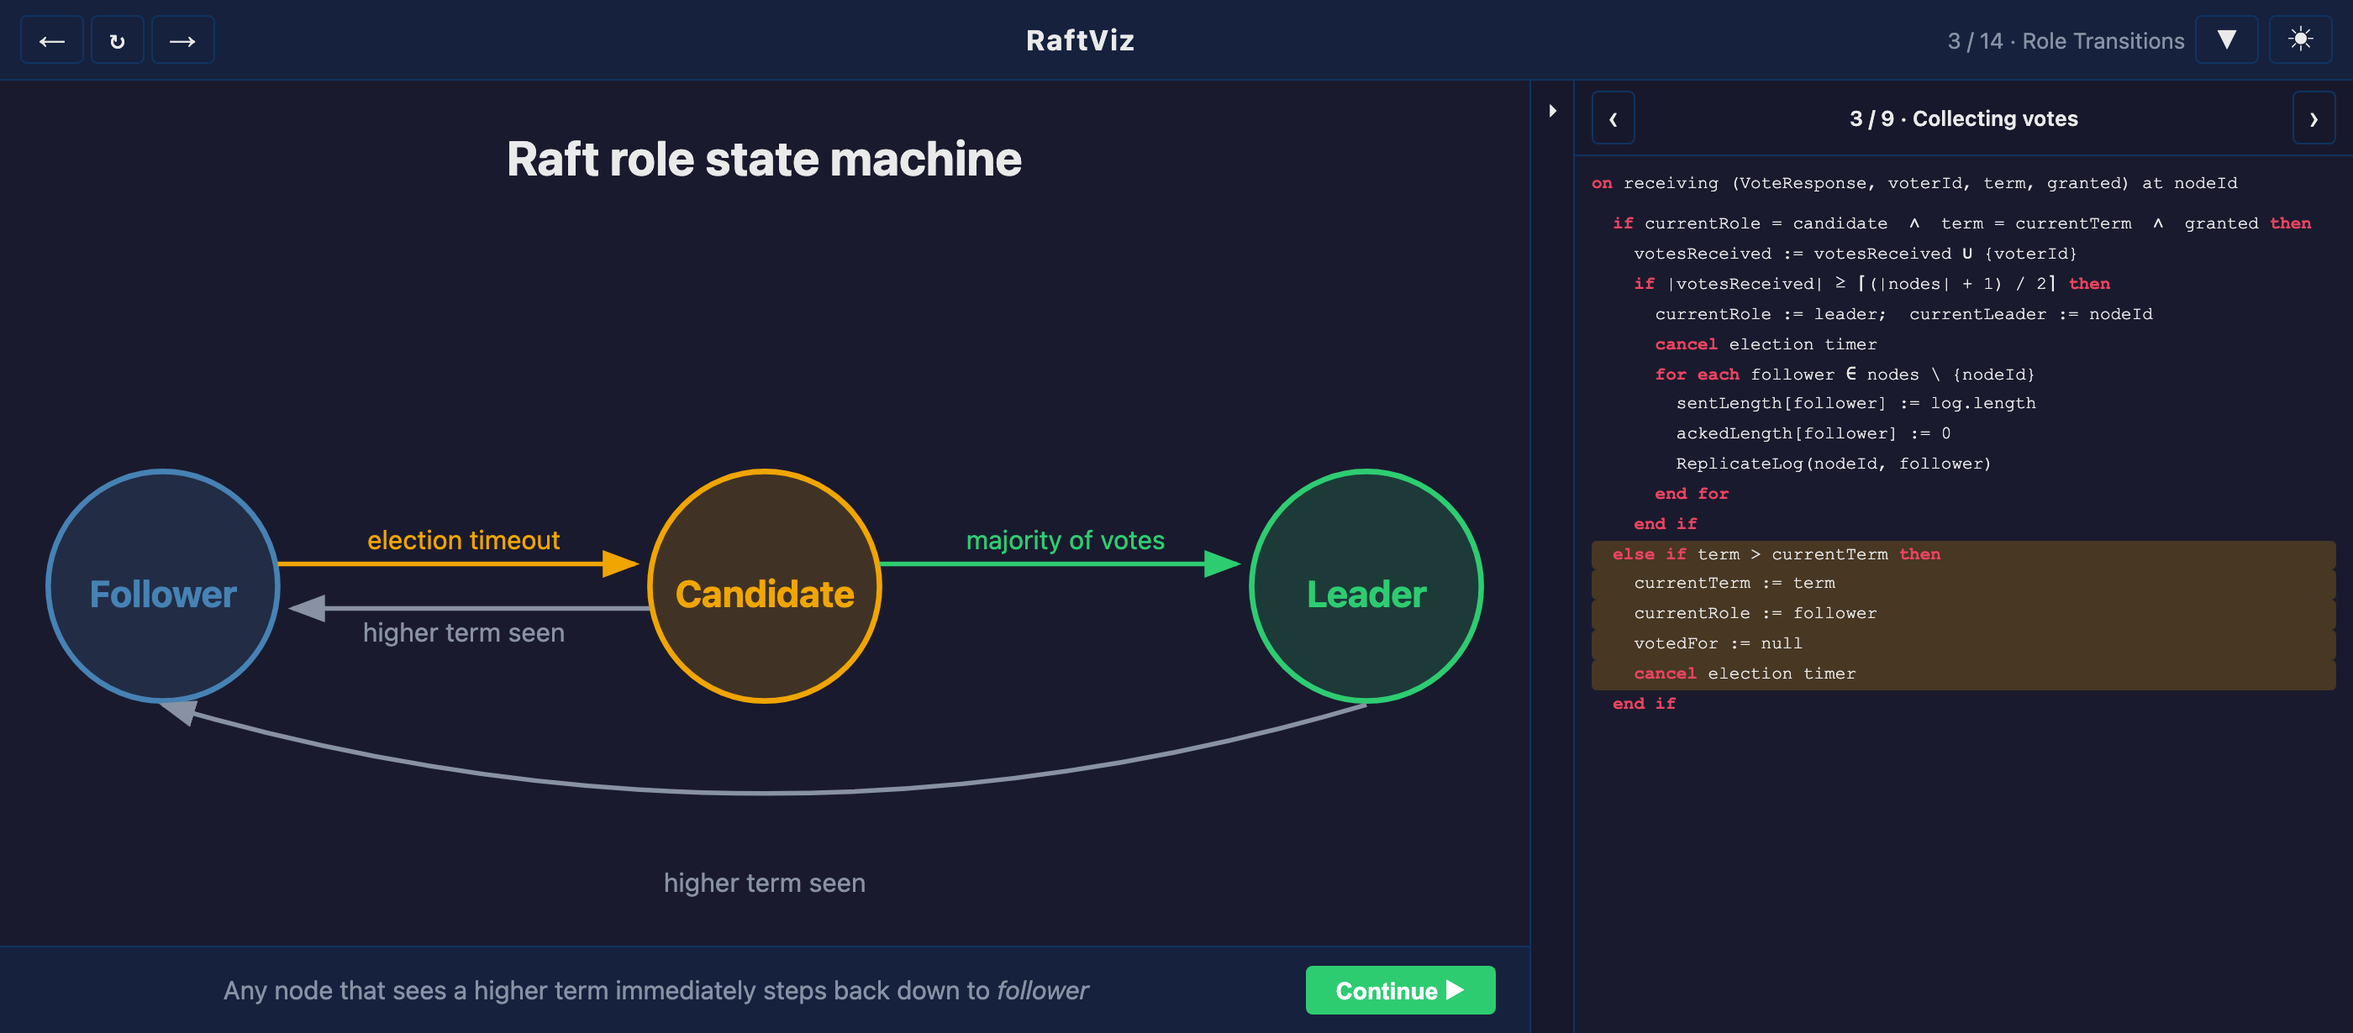
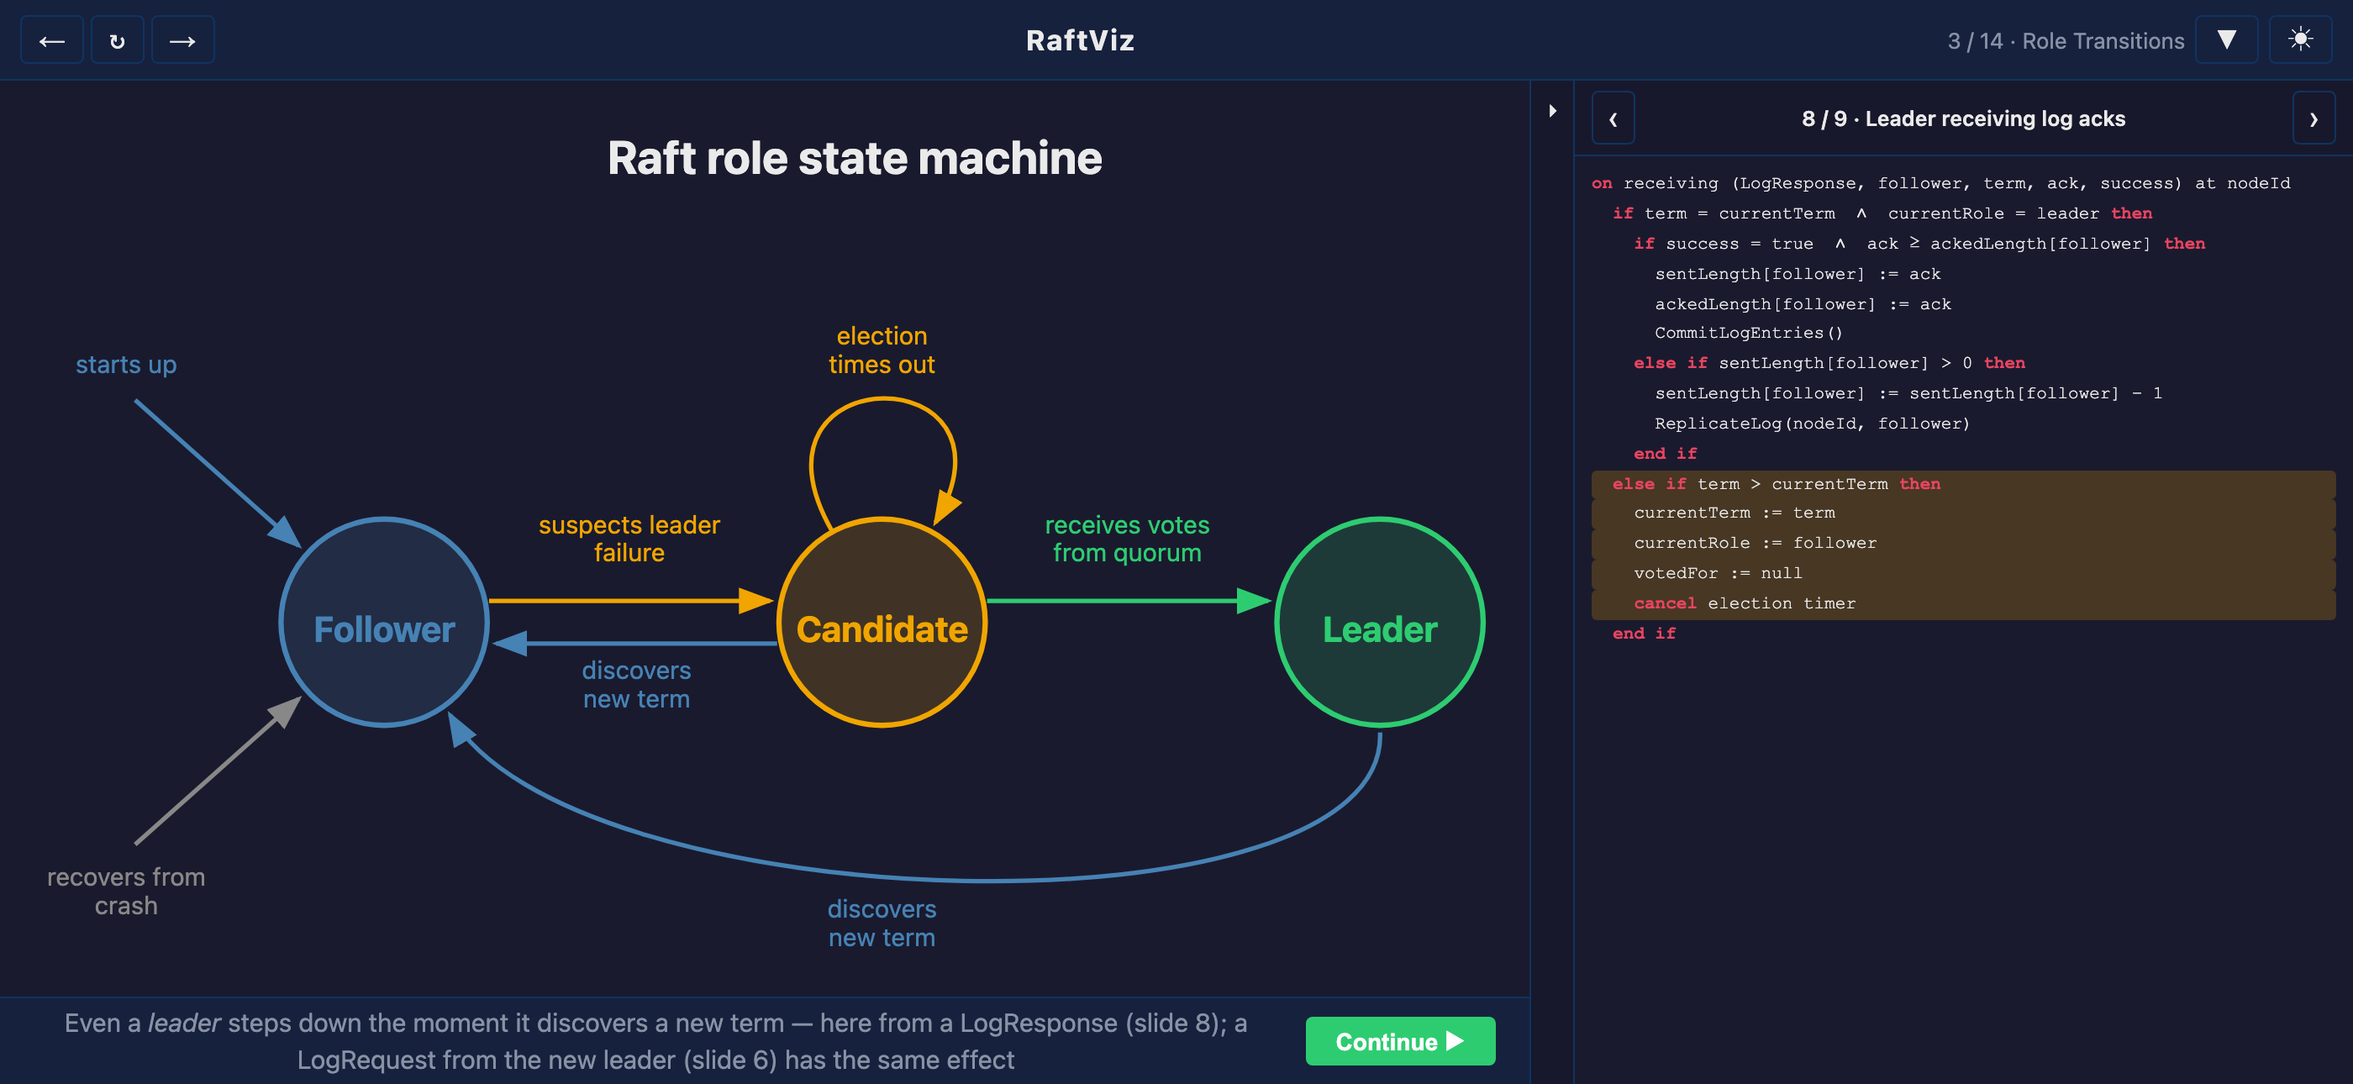
Scene 3: walk all six l:raft-states transitions
The role-transition diagram drew four of the lecture slide's six edges, and
attributed the leader step-down to slide 3 -- the candidate's VoteResponse
handler, which a leader never runs.

Scene 3 now steps through every edge, each highlighting the handler that
implements it:

  starts up                 -> HL.INIT          (slide 1)
  recovers from crash       -> HL.RECOVERY      (slide 1)
  F->C  suspects leader failure   -> HL.ELECTION_TIMEOUT
  C->L  receives votes from quorum -> HL.BECOME_LEADER (slide 3)
  C->F  discovers new term  -> HL.STEP_DOWN_3   (slide 3)
  C->C  election times out  -> HL.ELECTION_RETRY (slide 1, new)
  L->F  discovers new term  -> HL.STEP_DOWN_8   (slide 8)

Initialisation and crash recovery are separate edges because they are separate
`on ...` blocks on slide 1 -- the second resets only volatile state.
HL.STEP_DOWN_8 existed but was referenced by no frame; step 8 is its first use.
Labels now match the lecture wording, which the self-loop forced anyway:
"election timeout" on F->C clashed with "election times out" on C->C.

Geometry retuned (R 62->58, CY 270->300, cx 175/500/825 -> 235/515/795) to free
the left margin for the entry labels and vertical room for the self-loop. The
self-loop and the L->F edge are cubics: markers inherit
markerUnits="strokeWidth", so the tip renders 2.5 units past the path endpoint
and the naive symmetric endpoints buried both heads inside the target circle.
[…]

diff --git a/scripts/frames/03_state_diagram.js b/scripts/frames/03_state_diagram.js
@@ -5,10 +5,16 @@
  * with animated reveal of each transition arrow, synchronised with pseudocode
  * highlights.
  *
+ * The diagram mirrors the lecture's state-machine slide one-to-one: the two
+ * ways a node enters the follower state (fresh start-up and crash recovery,
+ * which are separate `on …` blocks on slide 1), the three role changes, and
+ * the candidate's election-timeout self-loop. Each arrow highlights the
+ * pseudocode that actually implements it — note that a *leader* steps down via
+ * slide 8, not slide 3.
+ *
  * No cluster simulation runs here — this is a pure annotated diagram.
  */
 
-import d3                  from '../lib/d3.js';
 import { PseudocodePanel } from '../pseudocode/pseudocode_layout.js';
 import { HL }              from '../pseudocode/pseudocode.js';
 import { getTheme }        from '../theme.js';
@@ -17,11 +23,13 @@ import { getTheme }        from '../theme.js';
 let _panel = null;
 
 // ── Circle geometry (SVG viewBox 0 0 1000 600) ───────────────────────────────
-const R   = 62;   // circle radius
-const CY  = 270;  // circle centre y
-const FX  = 175;  // Follower  cx
-const CX  = 500;  // Candidate cx
-const LX  = 825;  // Leader    cx
+const R   = 58;   // circle radius
+const CY  = 300;  // circle centre y
+const FX  = 235;  // Follower  cx
+const CX  = 515;  // Candidate cx
+const LX  = 795;  // Leader    cx
+
+const LINE_DY = 16;   // label line height — 1.15em at font-size 14
 
 // ── Frame descriptor ─────────────────────────────────────────────────────────
 export const frame03StateDiagram = {
@@ -39,15 +47,23 @@ export const frame03StateDiagram = {
     const COL_LEADER    = th.leader;
 
     // ── SVG defs: arrowhead markers ───────────────────────────────────────────
+    // The defs live on layout.svg, *outside* the root <g>, so layout.clear()
+    // never removes them — hence the explicit remove before re-creating. A
+    // theme toggle replays the frame, and stale markers would keep the old
+    // colours because url(#id) resolves to the first match in the document.
     const svgSel = layout.svg;
     const defsId = 'state-diagram-defs';
     svgSel.select(`#${defsId}`).remove();   // clean up if replaying
     const defs = svgSel.insert('defs', ':first-child').attr('id', defsId);
 
+    // Each edge is coloured by the role it leads *to*; the crash-recovery edge
+    // uses the same grey node_layout.js paints a crashed node with.
     const ARROW_COLORS = {
-      gray:   th.arrowGray,
+      blue:   th.follower,
       orange: th.candidate,
       green:  th.leader,
+      crash:  th.stopped,
+      gray:   th.arrowGray,   // fallback only
     };
     Object.entries(ARROW_COLORS).forEach(([key, fill]) => {
       defs.append('marker')
@@ -94,55 +110,98 @@ export const frame03StateDiagram = {
     const circleC = makeCircle(CX, CY, COL_CANDIDATE, 'Candidate');
     const circleL = makeCircle(LX, CY, COL_LEADER,    'Leader');
 
+    // ── Helper: multi-line SVG label ──────────────────────────────────────────
+    // The lecture slide wraps its edge labels; ours have to as well or they
+    // collide with the circles. `lines` may be a string or an array of lines.
+    function makeLabel(parent, lines, x, y, color, anchor = 'middle') {
+      const arr = Array.isArray(lines) ? lines : [lines];
+      const t = parent.append('text')
+        .attr('x', x).attr('y', y)
+        .attr('text-anchor', anchor)
+        .attr('font-size', 14)
+        .attr('fill', color);
+      t.selectAll('tspan')
+        .data(arr)
+        .join('tspan')
+          .attr('x', x)                                   // must repeat per line
+          .attr('dy', (_, i) => (i === 0 ? 0 : LINE_DY))  // first line: no shift
+          .text(d => d);
+      return t;
+    }
+
     // ── Helper: draw a labelled arrow (starts invisible) ──────────────────────
-    function makeArrow(d, color, key, labelTxt, labelX, labelY, anchor = 'middle') {
-      const grp = g.append('g').attr('opacity', 0);
+    // Path endpoints sit ~R+6 from the target centre: the markers inherit
+    // markerUnits="strokeWidth" (2.5), so the arrowhead tip renders 2.5 user
+    // units *past* the path endpoint.
+    function makeArrow(d, key, lines, labelX, labelY, anchor = 'middle') {
+      const col = ARROW_COLORS[key] ?? th.arrowGray;
+      const grp = g.append('g').attr('class', 'transition-arrow').attr('opacity', 0);
       grp.append('path')
         .attr('d', d)
         .attr('fill', 'none')
-        .attr('stroke', ARROW_COLORS[key] ?? '#8892a4')
+        .attr('stroke', col)
         .attr('stroke-width', 2.5)
         .attr('marker-end', `url(#arr-${key})`);
-      grp.append('text')
-        .attr('x', labelX).attr('y', labelY)
-        .attr('text-anchor', anchor)
-        .attr('font-size', 14)
-        .attr('fill', ARROW_COLORS[key] ?? '#8892a4')
-        .text(labelTxt);
+      makeLabel(grp, lines, labelX, labelY, col, anchor);
       return grp;
     }
 
+    // → F  (fresh start-up, entering from the upper left)
+    const arrowInit = makeArrow(
+      'M 95,175  L 187,257',
+      'blue',
+      ['starts up'],
+      90, 160,
+    );
+    // → F  (crash recovery, entering from the lower left)
+    const arrowRecover = makeArrow(
+      'M 95,425  L 187,343',
+      'crash',
+      ['recovers from', 'crash'],
+      90, 448,
+    );
     // F → C  (above, going right)
     const arrowFC = makeArrow(
-      `M ${FX + R},${CY - 12}  L ${CX - R - 8},${CY - 12}`,
-      COL_CANDIDATE, 'orange',
-      'election timeout',
-      (FX + CX) / 2, CY - 20,
-    );
-    // C → F  (below, going left)
-    const arrowCF = makeArrow(
-      `M ${CX - R},${CY + 12}  L ${FX + R + 8},${CY + 12}`,
-      'gray', 'gray',
-      'higher term seen',
-      (FX + CX) / 2, CY + 30,
+      'M 294,288  L 452,288',
+      'orange',
+      ['suspects leader', 'failure'],
+      373, 250,
     );
     // C → L  (above, going right)
     const arrowCL = makeArrow(
-      `M ${CX + R},${CY - 12}  L ${LX - R - 8},${CY - 12}`,
-      COL_LEADER, 'green',
-      'majority of votes',
-      (CX + LX) / 2, CY - 20,
+      'M 574,288  L 732,288',
+      'green',
+      ['receives votes', 'from quorum'],
+      653, 250,
     );
-    // L → F  (large arc below all circles)
+    // C → F  (below, going left)
+    const arrowCF = makeArrow(
+      'M 456,312  L 298,312',
+      'blue',
+      ['discovers', 'new term'],
+      377, 332,
+    );
+    // C → C  (self-loop above the candidate; a cubic so the head lands radially)
+    const arrowCC = makeArrow(
+      'M 487,249  C 430,150 600,150 545,244',
+      'orange',
+      ['election', 'times out'],
+      515, 144,
+    );
+    // L → F  (large arc below all circles, into the follower's lower right)
     const arrowLF = makeArrow(
-      `M ${LX},${CY + R + 2}  Q 500,430 ${FX},${CY + R + 2}`,
-      'gray', 'gray',
-      'higher term seen',
-      500, 435,
+      'M 795,362  C 800,480 340,470 272,352',
+      'blue',
+      ['discovers', 'new term'],
+      515, 466,
     );
 
     // ── Subtitle on load ──────────────────────────────────────────────────────
     layout.setSubtitle('Every Raft node is always in exactly one of three roles');
+
+    /** Fade one arrow in. */
+    const reveal = (arrow, delay = 0) =>
+      arrow.transition().duration(500).delay(delay).attr('opacity', 1);
 
     // ── Timeline steps ────────────────────────────────────────────────────────
     timeline
@@ -151,38 +210,73 @@ export const frame03StateDiagram = {
         circleF.transition().duration(600).attr('opacity', 1);
         circleC.transition().duration(600).delay(150).attr('opacity', 1);
         circleL.transition().duration(600).delay(300).attr('opacity', 1);
+        _panel.clear();
+      })
+      .waitForResume(() => {
+        layout.setSubtitle('Every Raft node is always in exactly one of three roles');
+      })
+
+      // Step 2: entering the state machine — fresh start-up
+      .after(300, () => {
+        reveal(arrowInit);
         _panel.highlight(...HL.INIT);
       })
       .waitForResume(() => {
-        layout.setSubtitle('On startup every node is a <em>follower</em> — slide 1 shows how it initialises');
+        layout.setSubtitle('A node that <em>starts up</em> begins as a follower — slide 1 initialises all of its state');
       })
 
-      // Step 2: election timeout arrow + candidate highlight
+      // Step 3: entering the state machine — crash recovery
       .after(300, () => {
-        arrowFC.transition().duration(500).attr('opacity', 1);
+        reveal(arrowRecover);
+        _panel.highlight(...HL.RECOVERY);
+      })
+      .waitForResume(() => {
+        layout.setSubtitle('After a <em>crash</em> it comes back as a follower again — currentTerm, votedFor, log and commitLength survive; the role and the volatile state do not');
+      })
+
+      // Step 4: election timeout — follower becomes candidate
+      .after(300, () => {
+        reveal(arrowFC);
         _panel.highlight(...HL.ELECTION_TIMEOUT);
       })
       .waitForResume(() => {
-        layout.setSubtitle('If no heartbeat arrives the election timer fires — the follower becomes a <em>candidate</em>');
+        layout.setSubtitle('A follower that <em>suspects the leader failed</em> bumps its term and becomes a candidate');
       })
 
-      // Step 3: quorum arrow + become-leader highlight
+      // Step 5: quorum of votes — candidate becomes leader
       .after(300, () => {
-        arrowCL.transition().duration(500).attr('opacity', 1);
+        reveal(arrowCL);
         _panel.highlight(...HL.BECOME_LEADER);
       })
       .waitForResume(() => {
-        layout.setSubtitle('A candidate that receives a majority of votes becomes the <em>leader</em> — slide 3');
+        layout.setSubtitle('A candidate with <em>votes from a quorum</em> becomes the leader — slide 3');
       })
 
-      // Step 4: step-down arrows
+      // Step 6: candidate step-down
       .after(300, () => {
-        arrowCF.transition().duration(500).attr('opacity', 1);
-        arrowLF.transition().duration(500).delay(200).attr('opacity', 1);
+        reveal(arrowCF);
         _panel.highlight(...HL.STEP_DOWN_3);
       })
       .waitForResume(() => {
-        layout.setSubtitle('Any node that sees a higher term immediately steps back down to <em>follower</em>');
+        layout.setSubtitle('A candidate that <em>discovers a new term</em> abandons its election and steps back down — slide 3 (slide 2 does the same on a VoteRequest)');
+      })
+
+      // Step 7: split vote — candidate retries in a higher term
+      .after(300, () => {
+        reveal(arrowCC);
+        _panel.highlight(...HL.ELECTION_RETRY);
+      })
+      .waitForResume(() => {
+        layout.setSubtitle('If the <em>election times out</em> with no winner, the candidate simply retries in a higher term — the very same handler as the follower’s timeout');
+      })
+
+      // Step 8: leader step-down — slide 8, not slide 3
+      .after(300, () => {
+        reveal(arrowLF);
+        _panel.highlight(...HL.STEP_DOWN_8);
+      })
+      .waitForResume(() => {
+        layout.setSubtitle('Even a <em>leader</em> steps down the moment it discovers a new term — here from a LogResponse (slide 8); a LogRequest from the new leader (slide 6) has the same effect');
       })
 
       .after(0, () => player.next());

diff --git a/test/smoke.js b/test/smoke.js
@@ -68,6 +68,15 @@ const isDisabledSel = (page, sel) => page.evaluate(
 const count         = (page, sel) => page.evaluate(
   sel => document.querySelectorAll(sel).length, sel);
 
+/**
+ * Number of scene-3 transition arrows that have finished fading in. Opacity is
+ * set as a presentation attribute by D3, so read the computed value rather than
+ * the attribute to stay correct if that ever moves into CSS.
+ */
+const visibleArrows = page => page.evaluate(() =>
+  [...document.querySelectorAll('.transition-arrow')]
+    .filter(el => parseFloat(getComputedStyle(el).opacity) > 0.99).length);
+
 const textOf        = (page, sel) => page.evaluate(
   sel => document.querySelector(sel)?.textContent ?? '', sel);
 
@@ -151,7 +160,38 @@ try {
     'stale "(Phase 3)" placeholder text is gone');
   assert((await nodeRole(page, 'A')) === null, 'no cluster nodes in title scene');
 
-  // ── 1b. Initialisation scene ────────────────────────────────────────────────
+  // ── 1b. Role-transition state diagram ───────────────────────────────────────
+  suite('Scene 3 — Role transitions (seven edges, ending on slide 8)');
+
+  await page.evaluate(() => { window.location.hash = 'state-diagram'; });
+  await waitFor(page, () =>
+    document.getElementById('scene-title')?.textContent.includes('3 / 14'));
+  await waitFor(page, AT_PAUSE);
+
+  const t3 = await sceneTitle(page);
+  assert(t3.includes('3 / 14'), `scene counter "3 / 14" (got "${t3}")`);
+  assert((await visibleArrows(page)) === 0,
+    'no transition arrows revealed at the first pause (circles only)');
+
+  // Seven reveals follow the circles: two entry edges plus the five role
+  // changes of the lecture's state machine.
+  for (let i = 0; i < 7; i++) await advancePause(page);
+  await sleep(700);   // let the last fade-in transition finish
+
+  assert((await count(page, '.transition-arrow')) === 7,
+    'all seven transition arrows drawn');
+  assert((await visibleArrows(page)) === 7,
+    'all seven transition arrows revealed by the last pause');
+
+  // The leader step-down must highlight slide 8 (the LogResponse handler),
+  // not slide 3 — a leader never runs the candidate's VoteResponse handler.
+  const sl3 = await pseudoLabel(page);
+  assert(sl3.includes('8 / 9'),
+    `leader step-down highlights pseudocode slide "8 / 9" (got "${sl3}")`);
+  assert((await hlCount(page)) === 5,
+    `STEP_DOWN_8 highlights 5 lines (got ${await hlCount(page)})`);
+
+  // ── 1c. Initialisation scene ────────────────────────────────────────────────
   suite('Scene 4 — Initialisation (three followers in term 0)');
 
   await page.evaluate(() => { window.location.hash = 'raft-init'; });

diff --git a/tools/capture.js b/tools/capture.js
@@ -376,13 +376,13 @@ const ASSETS = [
   {
     name: 'shot-state-diagram',
     kind: 'shot',
-    caption: 'Scene 3 — follower / candidate / leader role transitions',
+    caption: 'Scene 3 — all six follower / candidate / leader role transitions',
     async run(page) {
       await gotoScene(page, 'state-diagram');
       // The scene reveals one transition arrow per step, so capture at the
-      // last of its four pauses to get the complete diagram. Resuming past
+      // last of its eight pauses to get the complete diagram. Resuming past
       // that one advances to the next scene, so stop there.
-      for (let i = 0; i < 3; i++) await advancePause(page);
+      for (let i = 0; i < 7; i++) await advancePause(page);
       await sleep(1000);
     },
   },

diff --git a/scripts/pseudocode/pseudocode.js b/scripts/pseudocode/pseudocode.js
@@ -418,6 +418,7 @@ export const HL = {
   RECOVERY:           [1, [6, 7, 8]],
   TIMER_RESET:        [1, [20]],              // "start election timer" line only
   ELECTION_TIMEOUT:   [1, [10, 11, 12, 13, 14, 15, 16, 17, 18, 19, 20]],
+  ELECTION_RETRY:     [1, [10, 11]],          // same handler, re-entered on timeout
   VOTE_REQ_SEND:      [1, [16, 17, 18, 19]],
 
   // — Slide 2 —

diff --git a/docs/GUIDE.md b/docs/GUIDE.md
@@ -41,7 +41,7 @@ highlights the exact lines of pseudocode being executed.
 |  |  |
 |--|--|
 | ![Scene 6: a follower evaluates an incoming VoteRequest](media/shot-voting.png) | ![Scene 3: the follower / candidate / leader state diagram](media/shot-state-diagram.png) |
-| **Voting** — a follower checks `cTerm` and log freshness against its own state, next to the `on receiving (VoteRequest…)` handler that implements it. | **Role transitions** — how a node moves between follower, candidate and leader, and what triggers each edge. |
+| **Voting** — a follower checks `cTerm` and log freshness against its own state, next to the `on receiving (VoteRequest…)` handler that implements it. | **Role transitions** — every edge of the state machine, one step at a time: both ways into the follower state (start-up and crash recovery), the three role changes, and the candidate's election-timeout retry. Each arrow highlights the handler that implements it. |
 | ![Scene 8: a client command is appended to the leader's log and broadcast](media/shot-replication.png) | ![Scene 10: the leader commits an entry once a quorum has acknowledged it](media/shot-commit.png) |
 | **Replication** — a client command lands in the leader's log and goes out to the followers as a `LogRequest`. | **Commit** — once a quorum has acknowledged, the entry turns green and is delivered to each node's state machine. |
 
